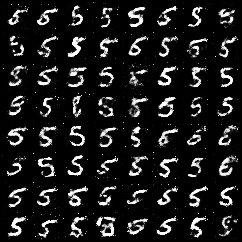
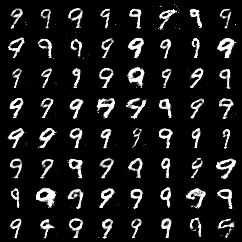
fixes

diff --git a/templates/index.html b/templates/index.html
@@ -21,12 +21,15 @@
               <h1 class="card-title mb-3">MNIST GAN</h1>
 
               <p class="text-muted mb-4">
-                The trained MNIST cGAN can generate an image of a digit on the
-                fly. Try it out by entering a digit below.
+                The GANs trained on the MNIST can generate an image of a digit
+                on the fly. Try it out by entering a digit below.
               </p>
 
-              <form method="POST" action="/generate" class="row g-3 justify-content-center">
-
+              <form
+                method="POST"
+                action="/generate"
+                class="row g-3 justify-content-center"
+              >
                 <div class="col-12 col-md-6">
                   <input
                     id="digit"
@@ -42,11 +45,12 @@
 
                   <select name="model_name" class="form-select" required>
                     {% for key, description in models.items() %}
-                      <option value="{{ key }}"
-                        {% if key == default_model %}selected{% endif %}
-                      >
-                        {{ models[key]["description"] }}
-                      </option>
+                    <option
+                      value="{{ key }}"
+                      {% if key == default_model %} selected {% endif %}
+                    >
+                      {{ models[key]["description"] }}
+                    </option>
                     {% endfor %}
                   </select>
                 </div>
@@ -56,9 +60,7 @@
                     Generate
                   </button>
                 </div>
-
               </form>
-
 
               {% if showimage %}
               <hr class="my-4" />
